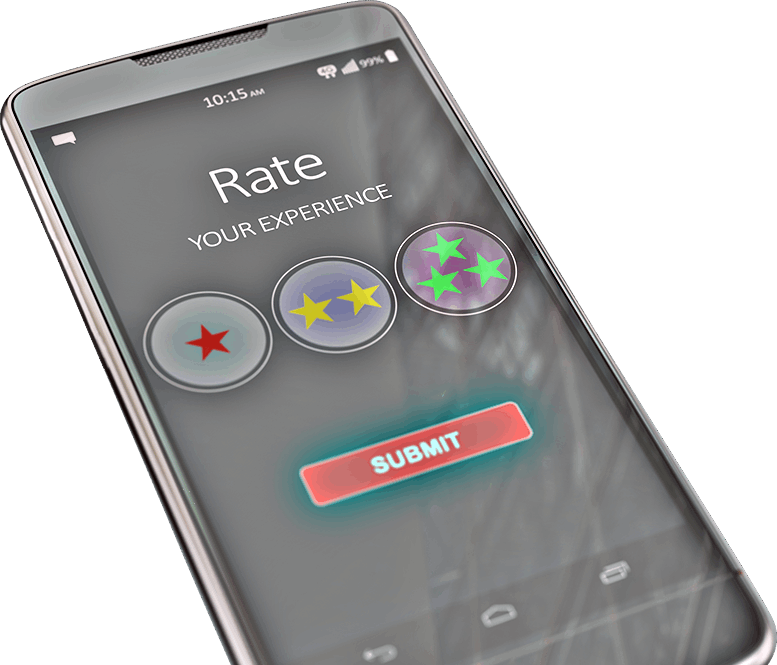
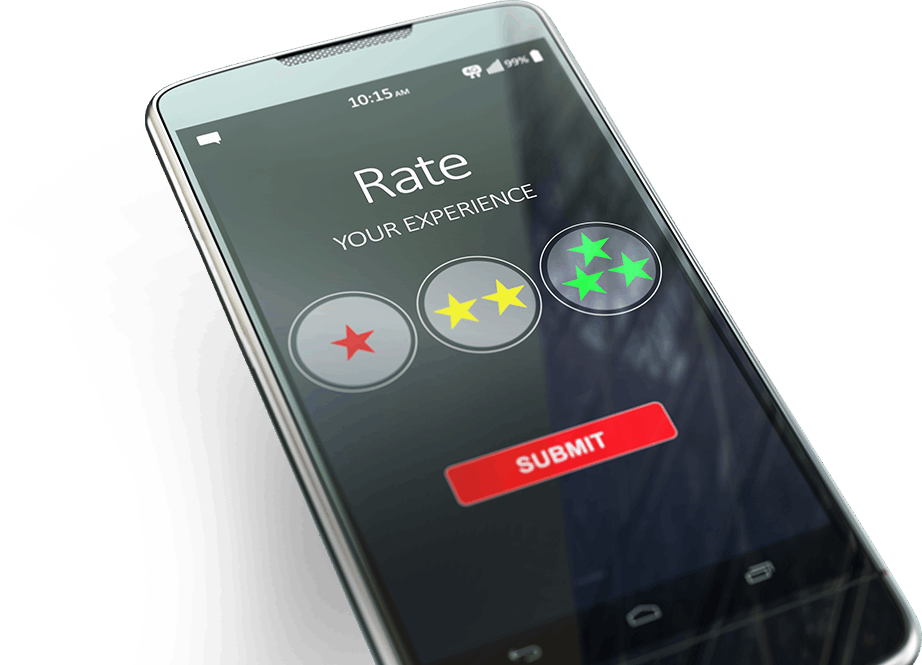
continue create smartphone

diff --git a/src/scss/style.scss b/src/scss/style.scss
@@ -61,9 +61,13 @@ header {
                 display:inline-block;
                 vertical-align: middle;
                 width: 22%;
-                img {
-                    width: 100%;
-                };
+                height: 130px;
+            };
+            .buttonAnswer__img[name="Great"] {
+                background-image: url("../img/Great.png");
+            };
+            .buttonAnswer__img[name="Bad"] {
+                background-image: url("../img/Bad.png");
             };
             .buttonAnswer__text {
                 display:inline-block;
@@ -77,14 +81,18 @@ header {
                 border-width: 3px 3px 3px 0px;
                 border-radius: 0px 15px 15px 0px;
                 font-size: 1.6em;
-            };
-            .buttonAnswer__text_Great {
-                border-color: #357bac;
-                color: #357bac;                    
-            };
-            .buttonAnswer__text_Bad {
                 border-color: #929292;
                 color: #929292;
+            };
+            input[type="radio"]:checked ~.buttonAnswer__text {
+                border-color: #357bac;
+                color: #357bac;
+            };
+            input[type="radio"]:checked ~.buttonAnswer__img[name="Great"] {
+                background-image: url("../img/Great-checked.png");
+            };
+            input[type="radio"]:checked ~.buttonAnswer__img[name="Bad"] {
+                background-image: url("../img/Bad-checked.png");
             };
         };
         input[type="submit"] {
@@ -97,12 +105,21 @@ header {
     width: 100%;
     top: 295px;
     right: 3%;
+    .smartShadow {
+        position: absolute;
+        top: 1%;
+        right: 2%;
+        width: 40.5%;
+    };
     .smartPassive {
         position: absolute;
         top: 0;
         right: 0;
         width: 40.5%;
-    }
+    };
+    .smartPassive:hover {
+        content: url(../img/smartActive.png);
+    };
 };
 
 @media screen and (max-width: 1262px) {
